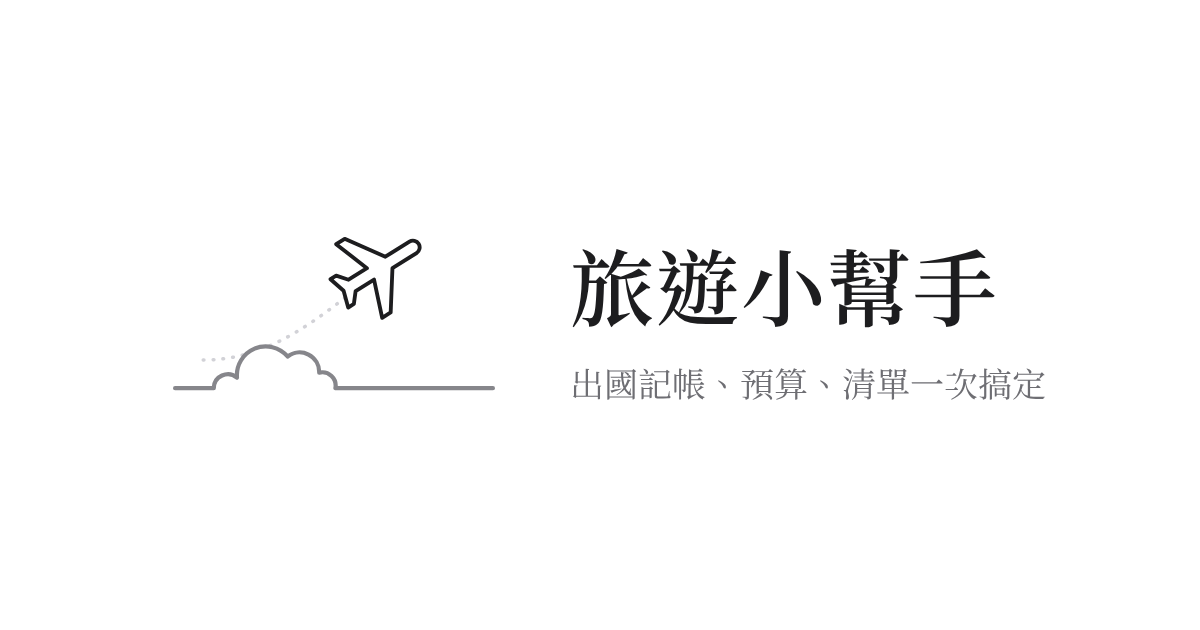
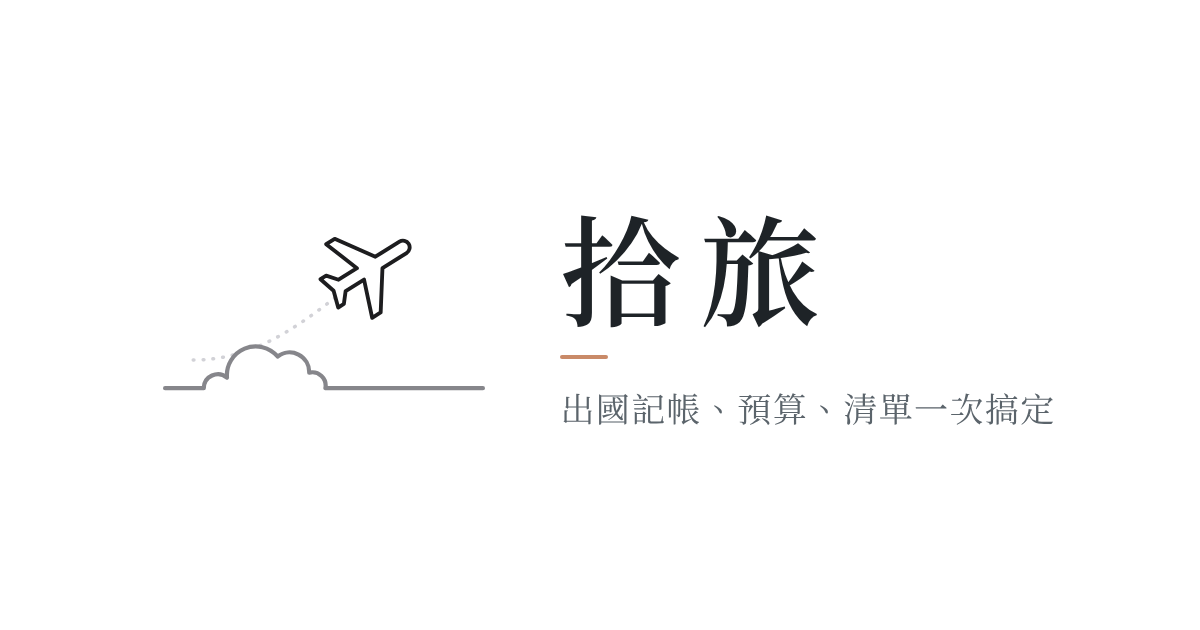
分享預覽圖改成「拾旅」
Claude-Session: https://claude.ai/code/session_01Kxdv1M8TfjDPQVdjLJMZ9U

diff --git a/beta/index.html b/beta/index.html
@@ -14,7 +14,7 @@
 <link rel="apple-touch-icon" href="../icons/apple-touch-icon.png">
 <meta property="og:title" content="拾旅">
 <meta property="og:description" content="出國記帳、預算、清單一次搞定">
-<meta property="og:image" content="https://shilu-trip.web.app/icons/og.png">
+<meta property="og:image" content="https://shilu-trip.web.app/icons/og.png?v=2">
 <meta property="og:type" content="website">
 <meta name="theme-color" content="#ffffff">
 <script>window.TH_CLOUD=true;window.TH_BETA=true;try{var d=JSON.parse(localStorage.getItem("travelHelper.v2")||"null");var mine=!!(d&&d.trips&&d.trips.some(function(t){return !t.sample}));var g=localStorage.getItem("travelHelper.guest")==="1";if(!mine&&!g)location.replace("https://shilu-trip.web.app/beta/"+location.search+location.hash)}catch(e){}</script>

diff --git a/index.html b/index.html
@@ -14,7 +14,7 @@
 <link rel="apple-touch-icon" href="icons/apple-touch-icon.png">
 <meta property="og:title" content="拾旅">
 <meta property="og:description" content="出國記帳、預算、清單一次搞定">
-<meta property="og:image" content="https://shilu-trip.web.app/icons/og.png">
+<meta property="og:image" content="https://shilu-trip.web.app/icons/og.png?v=2">
 <meta property="og:type" content="website">
 <meta name="theme-color" content="#ffffff">
 <script>window.TH_CLOUD=true;try{var d=JSON.parse(localStorage.getItem("travelHelper.v2")||"null");var mine=!!(d&&d.trips&&d.trips.some(function(t){return !t.sample}));var g=localStorage.getItem("travelHelper.guest")==="1";if(!mine&&!g)location.replace("https://shilu-trip.web.app/"+location.search+location.hash)}catch(e){}</script>

diff --git a/site/beta/index.html b/site/beta/index.html
@@ -14,7 +14,7 @@
 <link rel="apple-touch-icon" href="../icons/apple-touch-icon.png">
 <meta property="og:title" content="拾旅">
 <meta property="og:description" content="出國記帳、預算、清單一次搞定">
-<meta property="og:image" content="https://shilu-trip.web.app/icons/og.png">
+<meta property="og:image" content="https://shilu-trip.web.app/icons/og.png?v=2">
 <meta property="og:type" content="website">
 <meta name="theme-color" content="#ffffff">
 <script>window.TH_CLOUD=true;window.TH_BETA=true;</script>

diff --git a/site/index.html b/site/index.html
@@ -14,7 +14,7 @@
 <link rel="apple-touch-icon" href="icons/apple-touch-icon.png">
 <meta property="og:title" content="拾旅">
 <meta property="og:description" content="出國記帳、預算、清單一次搞定">
-<meta property="og:image" content="https://shilu-trip.web.app/icons/og.png">
+<meta property="og:image" content="https://shilu-trip.web.app/icons/og.png?v=2">
 <meta property="og:type" content="website">
 <meta name="theme-color" content="#ffffff">
 <script>window.TH_CLOUD=true;</script>
